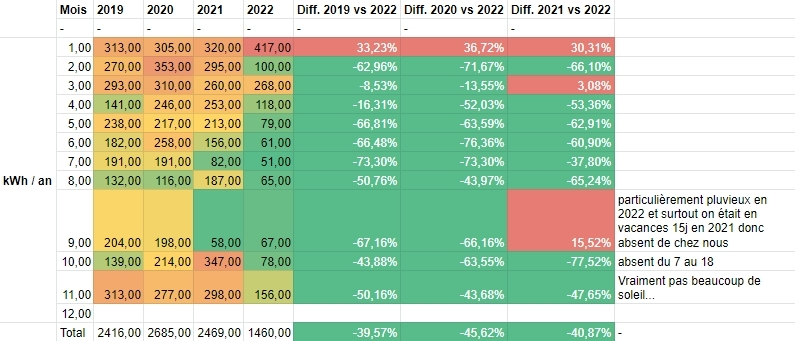
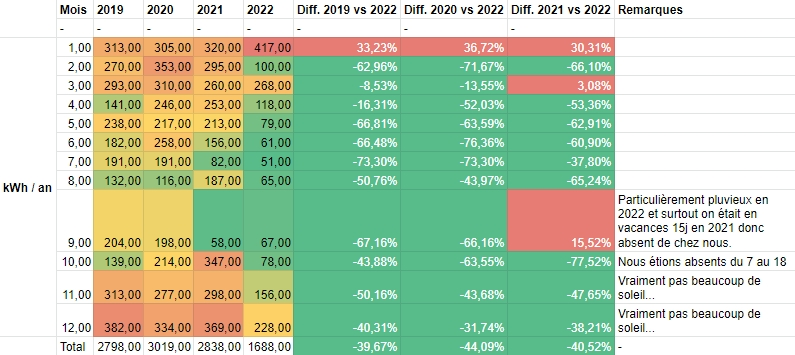
update article 2022-12-31

diff --git a/docs/fr/articles/2022-12-31-retour-d-experience-sur-une-installation-pv-9mois-partie-2/README.md b/docs/fr/articles/2022-12-31-retour-d-experience-sur-une-installation-pv-9mois-partie-2/README.md
@@ -7,7 +7,7 @@ date: 2022-12-31
 #      meta,
 #      {
 #        rel: canonical,
-#        href: https://thetooltip.substack.com/p/installation-pv-9mois-part2,
+#        href: https://iamjeremie.me/fr/articles/2022-12-31-retour-d-experience-sur-une-installation-pv-9mois-partie-2/,
 #      },
 #    ]
 category:
@@ -21,7 +21,7 @@ article: false
 
 ![Vue des champs Sud et Sud-Ouest](./images/vue-des-champs-sud-et-sud-ouest.jpg 'Les champs Sud et Sud-Ouest en position Printemps-Automne')
 
-En cet hiver 2022-2023, il devait de plus en plus intéressant de produire sa propre électricité. Mais quand est-il vraiment. Dans ce article, je présente ce que j'ai appris en 9 mois avec mon installation.
+En cet hiver 2022-2023, il devait de plus en plus intéressant de produire sa propre électricité. Mais quand est-il vraiment. Dans ce article, je présente les chiffres de 9 mois de fonctionnement de notre installation photovoltaïque.
 
 <!-- more -->
 
@@ -36,7 +36,7 @@ Elle est composée de :
 ![Label derrière un panneau solaire](./images/specifications-des-panneaux.jpg 'Les spécifications techniques des panneaux')
 
 - un micro onduleur APS QS1 4 MPPT (Voir [les spécifications détaillés de l'onduleur](https://emea.apsystems.com/wp-content/uploads/2018/10/APsystems-Microinverter-QS1-For-EMEA-User-manual_10.18_French.pdf)).
-- un [routeur solaire de Robin Emley](https://mk2pvrouter.co.uk/) (repris par [un couple français fin 2022](https://mk2pvrouter.com/)).
+- un [routeur solaire de Robin Emley](https://mk2pvrouter.co.uk/) (son auto-entreprise a été repris par [un couple français fin 2022](https://mk2pvrouter.com/)).
 - et quelques éléments électriques indispensables pour une installation photovoltaïque.
 
 Le tout a couté 2057 euros pour :
@@ -52,25 +52,25 @@ Le tout a couté 2057 euros pour :
 
 La consommation mois par mois montre une réduction claire d'avril à octobre :
 
-| Mois  | 2019    | 2020    | 2021    | 2022      |
-| ----- | ------- | ------- | ------- | --------- |
-| 1     | 313,00  | 305,00  | 320,00  | 417,00    |
-| 2     | 270,00  | 353,00  | 295,00  | 100,00    |
-| 3     | 293,00  | 310,00  | 260,00  | 268,00    |
-| 4     | 141,00  | 246,00  | 253,00  | 118,00    |
-| 5     | 238,00  | 217,00  | 213,00  | **79,00** |
-| 6     | 182,00  | 258,00  | 156,00  | **61,00** |
-| 7     | 191,00  | 191,00  | 82,00   | **51,00** |
-| 8     | 132,00  | 116,00  | 187,00  | **65,00** |
-| 9     | 204,00  | 198,00  | 58,00   | **67,00** |
-| 10    | 139,00  | 214,00  | 347,00  | **78,00** |
-| 11    | 313,00  | 277,00  | 298,00  | 177,00    |
-| 12    | 382,00  | 334,00  | 369,00  | 37,00     |
-| Total | 2798,00 | 3019,00 | 2838,00 | 1518,00   |
+| Mois  | 2019    | 2020    | 2021    | 2022        |
+| ----- | ------- | ------- | ------- | ----------- |
+| 1     | 313,00  | 305,00  | 320,00  | 417,00      |
+| 2     | 270,00  | 353,00  | 295,00  | 100,00      |
+| 3     | 293,00  | 310,00  | 260,00  | 268,00      |
+| 4     | 141,00  | 246,00  | 253,00  | 118,00      |
+| 5     | 238,00  | 217,00  | 213,00  | **79,00**   |
+| 6     | 182,00  | 258,00  | 156,00  | **61,00**   |
+| 7     | 191,00  | 191,00  | 82,00   | **51,00**   |
+| 8     | 132,00  | 116,00  | 187,00  | **65,00**   |
+| 9     | 204,00  | 198,00  | 58,00   | **67,00**   |
+| 10    | 139,00  | 214,00  | 347,00  | **78,00**   |
+| 11    | 313,00  | 277,00  | 298,00  | 177,00      |
+| 12    | 382,00  | 334,00  | 369,00  | 228,00      |
+| Total | 2798,00 | 3019,00 | 2838,00 | **1709,00** |
 
 ### Comparasion des 4 dernières années
 
-Et si l'on compare la consommation en 2019, 2020 et 2021 à celle de 2022, on voit que la consommation a diminué 42% en moyenne :
+Et si l'on compare la consommation en 2019, 2020 et 2021 à celle de 2022, on voit que la consommation a diminué 41 % en moyenne :
 
 ![Tableau comparant les années 2019 à 2022 en consommation mensuelle en kWh](./images/consommation-comparee-2019-2020-2021-2022.jpg "Le résultat est clair, n'est-ce pas ?")
 
@@ -84,7 +84,7 @@ Il faudra attendre encore 3 mois pour voir comment l'installation aide à diminu
 
 ### Conclusion
 
-- L'installation solaire a vraiment aidé à diminuer la consommation du résaeau.
+- L'installation solaire a vraiment aidé à diminuer la consommation du réseau.
 - J'avais un objectif à passer sous les 2000 kWh consommés sur le réseau. Objectif : atteint avec 9 mois !
 
 ==Et la consommation électrique globable ?==
@@ -106,19 +106,33 @@ Dans la réalité, nous n'avons pas réduit la consommation.
 | 9     | 204,00  | 198,00  | 58,00   | 214,90  |
 | 10    | 139,00  | 214,00  | 347,00  | 186,30  |
 | 11    | 313,00  | 277,00  | 298,00  | 238,60  |
-| 12    | 382,00  | 334,00  | 369,00  | 116,90  |
-| Total | 2798,00 | 3019,00 | 2838,00 | 2799,40 |
+| 12    | 382,00  | 334,00  | 369,00  | 263,30  |
+| Total | 2798,00 | 3019,00 | 2838,00 | 2945,80 |
 
 Nous ne l'avons pas augmenté non plus de façon significative.
 
 La consommation optimisée de la production montre en été une consommation plus élevé, principalement dû à l'ECS et le déshydrateur.
 
-Aussi, l'utilisation en journée de la plaque à induction au lieu de la cuisinière à gaz augmente la consommation électrique. Mais en été, c'est normal.
+![Tableau comparant les années 2019 à 2022 en consommation totale mensuelle en kWh](./images/consommation-totale-comparee-2019-2020-2021-2022.jpg 'Le résultat devient nuancé en regardant la cumul de la consommation photovoltaïque et de la consommation du réseau.')
+
+On se peut ainsi se demander si nous avons fait une affaire.
+
+Toutefois :
+
+- en Juillet, j'ai utilisé tous les jours le déshydrateur pour sècher des abricots, des poires et de la verveine.
+- en Septembre, nous avons consommé 7 % de plus que 2019 et 2020 (sachant qu'en 2021, nous étions absents la mois du mois)
+- en Mai, Juin et Août, on peut dire que la production a été stocké dans les 200 litres d'eau chaude.
+- d'Octobre à Décembre, la différence est claire, mais cela a à voir plus avec la gestion du cumulus vu l'absence de soleil, surtout les 2 derniers mois.
+- Enfin, l'utilisation en journée de la plaque à induction au lieu de la cuisinière à gaz augmente la consommation électrique. Mais en été, c'est normal.
+
+On va continuer à apprendre.
 
 ## Consommation pour l'ECS
 
 :::note Définition de "ECS"
+
 Il s'agit de l'Eau Chaude Sanitaire, dans notre cas, chauffée par une résistance de 2400 W dans un cumulus de 200 litres.
+
 :::
 
 | Mois  | 2020   | 2021   | 2022   |
@@ -132,16 +146,16 @@ Il s'agit de l'Eau Chaude Sanitaire, dans notre cas, chauffée par une résistan
 | 7     | 44,00  | 8,00   | 0,00   |
 | 8     | 18,00  | 48,00  | 0,00   |
 | 9     | 53,00  | 12,00  | 0,00   |
-| 10    | 64     | 122    | 14     |
-| 11    | 107    | 120    | 78,8   |
-| 12    | 118    | 129    | 33,5   |
-| Total | 987    | 957    | 401,3  |
+| 10    | 64,00  | 122,00 | 14,00  |
+| 11    | 107,00 | 120,00 | 78,80  |
+| 12    | 118,00 | 129,00 | 124,50 |
+| Total | 987,00 | 957,00 | 492,30 |
 
 ### La conclusion
 
 - La consommation depuis de le réseau Enedis a disparu de Mai à Septembre, même avec le mauvais temps d'Août et Septembre.
 - En effet, j'ai remarqué que si le routeur solaire fournissait au moins 2kWh au cumulus chaque jour, on n'avait pas besoin de faire l'appoint avec le réseau.
-- A partir d'octobre et surtout en novembre et décembre, la météo fut si grise qu'on a produit en moyenne 2.08 kWh par jour ... :(
+- A partir d'octobre et surtout en novembre et décembre, la météo fut si grise qu'on a produit en moyenne 2.08 kWh par jour en novembre et à peine plus d'un kWh en décembre... :(
 
 ## La production
 
@@ -174,17 +188,17 @@ Il s'agit de l'Eau Chaude Sanitaire, dans notre cas, chauffée par une résistan
   "series": [
     {
       "data": [
-        0, 0, 17.3, 160.6, 210.4, 204.3, 225.4, 192.7, 150.9, 109.3, 62.6, 11.9
+        0, 0, 17.3, 160.6, 210.4, 204.3, 225.4, 192.7, 150.9, 109.3, 62.6, 36.3
       ],
       "type": "line"
     },
     {
-      "data": [0, 0, 10, 13, 24, 21, 21, 38, 3, 1, 1, 0],
+      "data": [0, 0, 10, 13, 24, 21, 21, 38, 3, 1, 1, 1],
       "type": "bar"
     },
     {
       "data": [
-        0, 0, 7.3, 147.6, 186.4, 183.3, 204.4, 154.7, 147.9, 108.3, 61.6, 11.9
+        0, 0, 7.3, 147.6, 186.4, 183.3, 204.4, 154.7, 147.9, 108.3, 61.6, 35.3
       ],
       "type": "line"
     }
@@ -200,9 +214,11 @@ Il s'agit de l'Eau Chaude Sanitaire, dans notre cas, chauffée par une résistan
 
 ### Quelle économie sur 9 mois
 
-Si je prends le coût réel du kWh incluant l'abonnement mois par mois, j'arrive à un peu plus de 300 euros en 9 mois. Cela rentabilise déjà le routeur solaire !
+Si je prends le coût réel du kWh incluant l'abonnement mois par mois (variant de 19 centimes à 27 centimes d'euros), j'arrive à un peu plus de 300 euros en 9 mois. Cela rentabilise déjà le routeur solaire.
 
-Vu la performance des deux derniers mois, je ne suis pas sûr qu'il y ait un gain important dans les trois à venir.
+Nous sommes: ce n'est toutefois pas aussi simple, et certains me diront qu'il faut calculer autrement ou que le routeur est un achat superful.
+
+Vu la performance des deux derniers mois, je ne suis pas sûr qu'il y ait un gain important dans les trois à venir avec le routeur. Cependant, de mars à octobre, ça vaut le coup.
 
 | Month | Coût kWh acheté | Montant économisé |
 | ----- | --------------- | ----------------- |
@@ -217,10 +233,10 @@ Vu la performance des deux derniers mois, je ne suis pas sûr qu'il y ait un gai
 | 9     | 0,27 €          | 40,23 €           |
 | 10    | 0,27 €          | 29,46 €           |
 | 11    | 0,27 €          | 16,76 €           |
-| 12    | 0,19 € [^first] | TBC               |
-| Total |                 | TBC               |
+| 12    | 0,19 € [^first] | 6,60 €            |
+| Total |                 | 303,88 €          |
 
-[^first]: En décembre 2022, nous sommes passés à EDF au lieu d'Engie... J'aurai dû faire le changement il y a bien longtemps. Mais la hausse de 25% sur le renouvellement du contrat annuel 2022-2023 d'Engie m'a permis de comprendre qu'EDF est bien moins cher.
+[^first]: En décembre 2022, nous sommes passés à EDF au lieu d'Engie... J'aurai dû faire le changement il y a bien longtemps. Mais la hausse de 25% sur le renouvellement du contrat annuel 2022-2023 d'Engie m'a permis de comprendre qu'EDF est bien moins cher, même avec l'augmentation prévue en février 2023.
 
 ## Retour sur investissement
 
@@ -228,7 +244,7 @@ Ce sujet risque d'être controversé auprès de certains qui ne seront pas d'acc
 
 ### Les données théoriques PVG
 
-Je me suis rendu sur [le site PVG](https://re.jrc.ec.europa.eu/pvg_tools/fr/#PVP) pour estimer la production technique, hors météo et ombre de la végétation avec les entrées suivantes :
+Pour commencer, je me suis rendu sur [le site PVG](https://re.jrc.ec.europa.eu/pvg_tools/fr/#PVP) pour estimer la production théorique, hors météo et ombre de la végétation, avec les entrées suivantes :
 
 - Emplacement [Lat/Lon] : 45.063,4.807
 - Horizon : Calculé
@@ -295,28 +311,87 @@ Ce qui donne cette courbe :
 
 :::
 
-Je peux déjà vous annoncer que je suis constamment 15 à 20 % en dessous de la théorie
+Je peux déjà vous annoncer que je suis constamment 15 à 25 % en dessous de la théorie, voire même 33 % et 48 % en novembre et en décembre respectivement.
 
-### Mes méthodes
+### Mon calcul
 
 Je ne sais pas quel calcul sera le plus juste.
 
-### Les chiffres
+Je pars donc des données réelles d'avril à décembre et je pars sur une estimation pour janvier à mars.
+
+Cela donne :
+
+| Mois | Taux d'autoconsommation | Taux de production | Production (kWh) | Production autoconsommée |
+| ---- | ----------------------- | ------------------ | ---------------- | ------------------------ |
+| 1    | 98,00% [^second]        | 60,00% [^second]   | 50,02 [^second]  | 49,02 [^second]          |
+| 2    | 98,00% [^second]        | 70,00% [^second]   | 85,11 [^second]  | 83,40 [^second]          |
+| 3    | 98,00% [^second]        | 80,00% [^second]   | 144,66 [^second] | 141,76 [^second]         |
+| 4    | 91,91%                  | 84,92%             | 160,60           | 147,60                   |
+| 5    | 88,59%                  | 95,43%             | 210,40           | 186,40                   |
+| 6    | 89,72%                  | 87,29%             | 204,30           | 183,30                   |
+| 7    | 90,68%                  | 92,91%             | 225,40           | 204,40                   |
+| 8    | 80,28%                  | 84,55%             | 192,70           | 154,70                   |
+| 9    | 98,01%                  | 77,82%             | 150,90           | 147,90                   |
+| 10   | 99,09%                  | 74,08%             | 109,30           | 108,30                   |
+| 11   | 98,40%                  | 67,89%             | 62,60            | 61,60                    |
+| 12   | 97,25%                  | 52,28%             | 36,30            | 35,30                    |
+| -    | -                       | -                  | Total            | 1503,69 [^second]        |
+
+:::note Définitions
+
+- Taux d'autoconsommation : correspond à la production consommée moins le rejet sur le réseau.
+- Taux de production : correspond à la Production réelle divisée par la Production théorique.
+
+:::
+
+[^second]: Les valeurs sont estimées
+
+Avec une augmentation annuelle, relativement optimiste vu la situation début 2023, du prix du kWh acheté à EDF à 8 % [^third], l'installation devient rentable au bout 5 ans et 2 mois environ.
+
+[^third]: 8 % correspond au taux d'augmentation _moyen_ du prix du kWh chaque année en 2014 et 2022, 4 à 20 % en réalité.
+
+| Année | Production annuelle | Prix du kWh | Economie annuelle | Cumul     |
+| ----- | ------------------- | ----------- | ----------------- | --------- |
+| 1     | 1503,69             | 0,23 €      | 345,85 €          | 345,85 €  |
+| 2     | 1503,69             | 0,25 €      | 373,52 €          | 719,36 €  |
+| 3     | 1503,69             | 0,27 €      | 403,40 €          | 1122,76 € |
+| 4     | 1503,69             | 0,29 €      | 435,67 €          | 1558,43 € |
+| 5     | 1503,69             | 0,31 €      | 470,52 €          | 2028,95 € |
+| 6     | 100,00              | 0,34 €      | 33,79 €           | 2062,75 € |
 
 ## Quelle est la suite
 
-- Trouver un moyen d'utiliser le déhydrateur sans chauffer la maison l'été.
+- J'aimerai trouver un moyen d'utiliser le déhydrateur sans chauffer la maison l'été 😂
 
-  - Je pense à une rallonge qui courait de la sortie 2 du routeur à la véranda.
-  - Pour y arriver, il y a de la distance à parcourir.
+  - Je pense à une rallonge qui courait de la sortie 2 du routeur jusqu'à la véranda.
+  - Pour y arriver, il y a de la distance à parcourir et il faut réfléchir comme y arriver sans pertuber l'intérieur de la maison.
   - Cela permettrait néanmoins d'amener une alimentation issue du routeur solaire à un endroit utile.
 
 - Réduire la résistant du chauffe-eau en fonction de ce que l'hiver nous apprendra
 
-  - Quelle sera la durée optimale de chauffe de l'ECS tout en gardant l'option de faire tourner une lessive ou le lave-vaisselle la même nuit.
+  - Quelle sera la durée optimale de chauffe de l'ECS tout en gardant l'option de faire tourner une lessive ou le lave-vaisselle la même nuit, sachant qu'il faudra éviter que deux tournent ensemble.
   - Il faut que cette modification soit simple pour permettre l'ajustement entre 800 W, 1600 W et 2400 W de puissance
 
 - J'ai aussi penser à augmenter de 480 Wc la puissance de l'installation
   - En effet, sur 120 m de câble en 6 mm², je peux ajouter environ cette puissance sans dépasser la limite où le câble surchaufferait.
   - Toutefois, les finances sont limitées en ce moment. Certes, grâce à Solair'ethic, je peux me fournir en panneaux peu chers (50 euros pour un panneau recyclé de 240 Wc par exemple), mais il faut débourser plus de 200 euros pour un micro-onduleur.
   - Je ne suis pas sûr que l'investissement nous permettent de gagner beaucoup.
+
+## Conclusion :)
+
+J'espère que vous avez trouvé cela utile. Je sais que cela fait beaucoup de chiffres.
+
+Mais, dans mon expérience, pour prendre des bonnes décisions, il faut des données, des mesures, sinon, c'est plus du hasard.
+
+Je sais aussi que certains ont sûrement fait autrement ou qu'ils trouveront des défauts à mes calculs ou ma réflexion.
+
+Partagez vos avis de façon constructive. Avant tout, ce n'est pas d'avoir raison à 100 % qui compte, c'est de réaliser un petit effort chez soi pour réduire la pression économique sur nos foyers.
+
+En attendant, ==merci pour votre soutien !==
+
+:::center
+⏬⏬⏬
+:::
+
+<!-- markdownlint-disable MD033 -->
+<p class="newsletter-wrapper"><iframe class="newsletter-embed" src="https://thetooltip.substack.com/embed" frameborder="0" scrolling="no"></iframe></p>

diff --git a/docs/fr/articles/2022-12-15-retour-d-experience-sur-une-installation-pv-9mois-partie-1/README.md b/docs/fr/articles/2022-12-15-retour-d-experience-sur-une-installation-pv-9mois-partie-1/README.md
@@ -289,7 +289,9 @@ Encore 2 semaines de relevés et vous pourrez découvrir :
 
 En attendant, ==merci pour votre soutien !==
 
+:::center
 ⏬⏬⏬
+:::
 
 <!-- markdownlint-disable MD033 -->
 <p class="newsletter-wrapper"><iframe class="newsletter-embed" src="https://thetooltip.substack.com/embed" frameborder="0" scrolling="no"></iframe></p>
